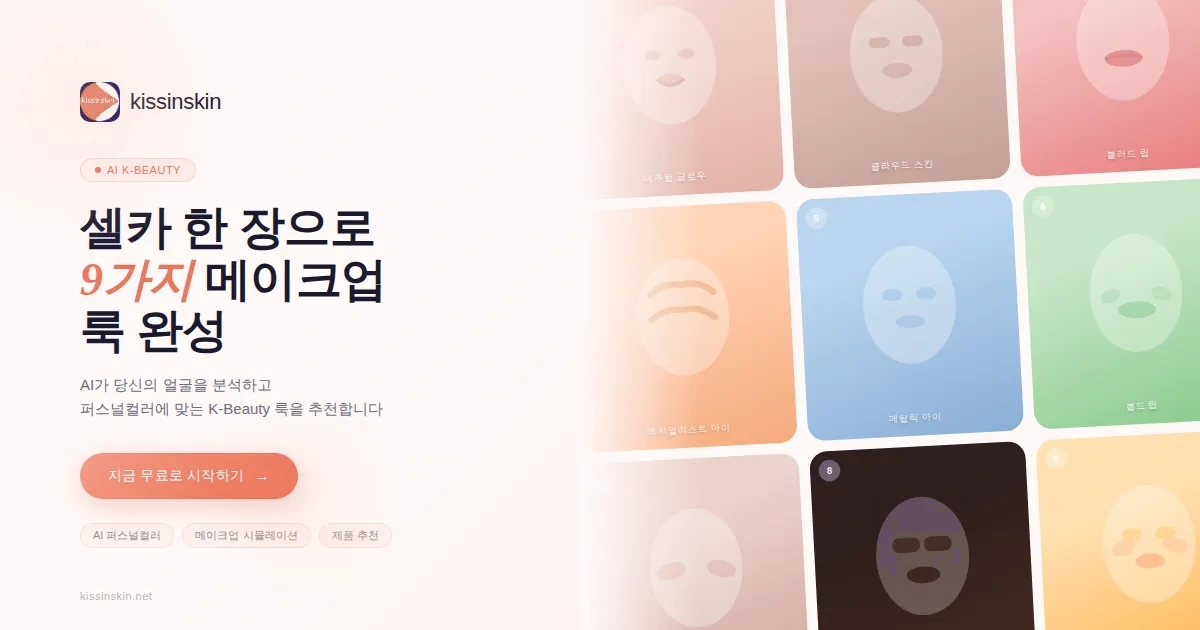
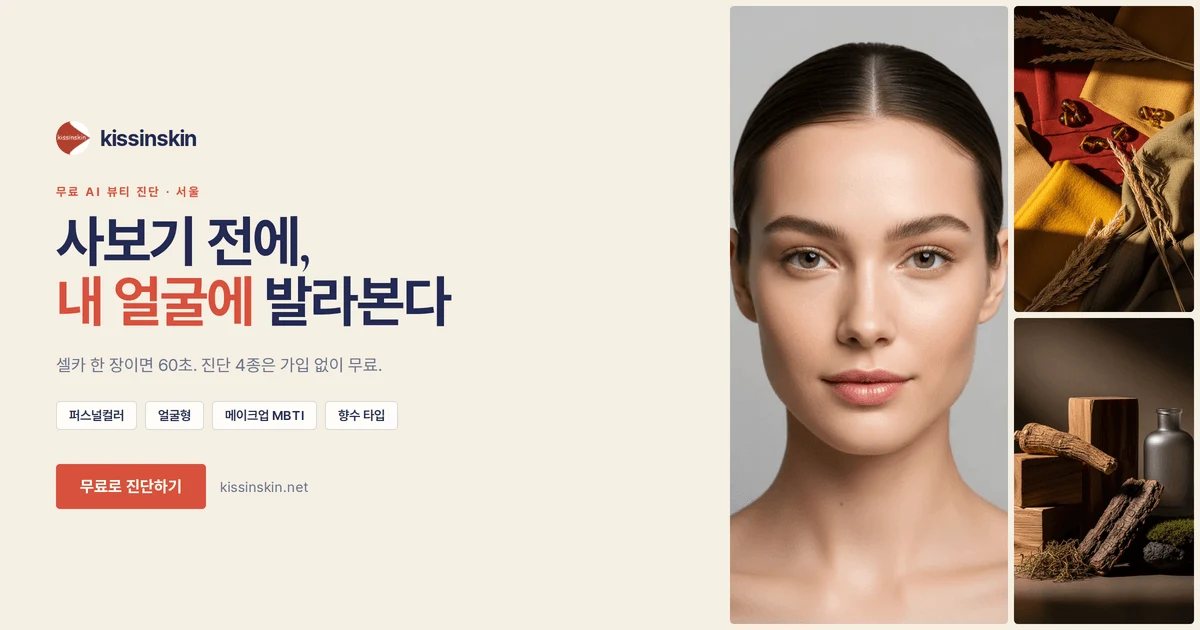
feat(og): 공유 카드 재생성 — 옛 카피·옛 핑크가 픽셀로 구워져 있던 og-image 교체 + EN 전용판
기존 og-image.png 는 팔레트 개편의 유일한 사각지대였다. 핑크 그라데이션 배경에
"셀카 한 장으로 9가지 메이크업 룩 완성"(옛 카피)과 "지금 무료로 시작하기" 가
이미지로 구워져 있어, 카톡·네이버·트위터에 공유될 때마다 개편 전 사이트가
그대로 나갔다. 오른쪽 격자는 이목구비가 없는 마스크 도형이었다.

- scripts/gen-og-image.mjs 추가. HTML → Playwright 스크린샷 → sharp 축소.
  카피/팔레트가 바뀌면 다시 돌리면 된다(recolor-logo.mjs 와 같은 취지).
  이미지 모델을 쓰지 않는 이유는 OG 카드의 본체가 텍스트이기 때문이다 —
  이미지 모델은 한글 자소를 정확히 그리지 못한다. 사진은 이미 만들어 둔
  public/mood/ 를 합성한다(포트레이트 + 가을 팔레트 + 우디 정물).
- 카피를 홈 히어로(home.hero.title*)와 같은 문장으로 맞췄다. 공유 카드와
  도착 페이지의 첫 문장이 다르면 클릭한 사람이 되돌아간다.
- og-image-en 신설 + pages/en 24개 Head 연결. 구글 유입의 42% 가 영어권인데
  (2026-07-14 서치콘솔) 공유 카드는 한국어 하나뿐이었다.

diff --git a/pages/en/+Head.tsx b/pages/en/+Head.tsx
@@ -24,7 +24,7 @@ export default function Head() {
         content="Free virtual makeup try-on. One selfie, 60 seconds — AI applies 9 K-beauty makeup looks and matching hair colour, then you compare before/after. Log in for 1 free try, no card needed. Free personal color and face shape tests too."
       />
       <meta property="og:url" content="https://kissinskin.net/en/" />
-      <meta property="og:image" content="https://kissinskin.net/og-image.png" />
+      <meta property="og:image" content="https://kissinskin.net/og-image-en.png" />
       <meta property="og:image:width" content="1200" />
       <meta property="og:image:height" content="630" />
       <meta property="og:image:type" content="image/png" />
@@ -36,7 +36,7 @@ export default function Head() {
         name="twitter:description"
         content="Free virtual makeup try-on. One selfie, 60 seconds — AI applies 9 K-beauty makeup looks and matching hair colour, then you compare before/after. Log in for 1 free try, no card needed. Free personal color and face shape tests too."
       />
-      <meta name="twitter:image" content="https://kissinskin.net/og-image.png" />
+      <meta name="twitter:image" content="https://kissinskin.net/og-image-en.png" />
       <script
         type="application/ld+json"
         dangerouslySetInnerHTML={{

diff --git a/pages/en/about-makeup-ai/+Head.tsx b/pages/en/about-makeup-ai/+Head.tsx
@@ -18,14 +18,14 @@ export default function Head() {
       <meta property="og:url" content="https://kissinskin.net/en/about-makeup-ai/" />
       <meta property="og:title" content={title} />
       <meta property="og:description" content={desc} />
-      <meta property="og:image" content="https://kissinskin.net/og-image.png" />
+      <meta property="og:image" content="https://kissinskin.net/og-image-en.png" />
       <meta property="og:site_name" content="kissinskin" />
       <meta property="og:locale" content="en_US" />
       <meta property="og:locale:alternate" content="ko_KR" />
       <meta name="twitter:card" content="summary_large_image" />
       <meta name="twitter:title" content={title} />
       <meta name="twitter:description" content={desc} />
-      <meta name="twitter:image" content="https://kissinskin.net/og-image.png" />
+      <meta name="twitter:image" content="https://kissinskin.net/og-image-en.png" />
       <script
         type="application/ld+json"
         dangerouslySetInnerHTML={{

diff --git a/pages/en/contact/+Head.tsx b/pages/en/contact/+Head.tsx
@@ -17,7 +17,7 @@ export default function Head() {
         property="og:description"
         content="Reach kissinskin for support, billing, privacy, and business inquiries."
       />
-      <meta property="og:image" content="https://kissinskin.net/og-image.png" />
+      <meta property="og:image" content="https://kissinskin.net/og-image-en.png" />
       <meta property="og:site_name" content="kissinskin" />
       <meta property="og:locale" content="en_US" />
       <meta property="og:locale:alternate" content="ko_KR" />
@@ -27,7 +27,7 @@ export default function Head() {
         name="twitter:description"
         content="Support, billing, privacy, and business inquiries."
       />
-      <meta name="twitter:image" content="https://kissinskin.net/og-image.png" />
+      <meta name="twitter:image" content="https://kissinskin.net/og-image-en.png" />
       <script
         type="application/ld+json"
         dangerouslySetInnerHTML={{

diff --git a/pages/en/tools/+Head.tsx b/pages/en/tools/+Head.tsx
@@ -25,7 +25,7 @@ export default function Head() {
       <meta property="og:url" content="https://kissinskin.net/en/tools/" />
       <meta property="og:title" content="kissinskin Tools · Free K-beauty self-diagnosis" />
       <meta property="og:description" content={desc} />
-      <meta property="og:image" content="https://kissinskin.net/og-image.png" />
+      <meta property="og:image" content="https://kissinskin.net/og-image-en.png" />
       <meta property="og:image:width" content="1200" />
       <meta property="og:image:height" content="630" />
       <meta property="og:locale" content="en_US" />
@@ -33,7 +33,7 @@ export default function Head() {
       <meta name="twitter:card" content="summary_large_image" />
       <meta name="twitter:title" content="kissinskin Tools · Free K-beauty self-diagnosis" />
       <meta name="twitter:description" content={desc} />
-      <meta name="twitter:image" content="https://kissinskin.net/og-image.png" />
+      <meta name="twitter:image" content="https://kissinskin.net/og-image-en.png" />
       <script type="application/ld+json" dangerouslySetInnerHTML={{ __html: JSON.stringify({
         "@context": "https://schema.org", "@type": "BreadcrumbList",
         "itemListElement": [

diff --git a/pages/en/tools/face-shape/+Head.tsx b/pages/en/tools/face-shape/+Head.tsx
@@ -21,14 +21,14 @@ export default function Head() {
       <meta property="og:url" content="https://kissinskin.net/en/tools/face-shape/" />
       <meta property="og:title" content={title} />
       <meta property="og:description" content={desc} />
-      <meta property="og:image" content="https://kissinskin.net/og-image.png" />
+      <meta property="og:image" content="https://kissinskin.net/og-image-en.png" />
       <meta property="og:site_name" content="kissinskin" />
       <meta property="og:locale" content="en_US" />
       <meta property="og:locale:alternate" content="ko_KR" />
       <meta name="twitter:card" content="summary_large_image" />
       <meta name="twitter:title" content={title} />
       <meta name="twitter:description" content={desc} />
-      <meta name="twitter:image" content="https://kissinskin.net/og-image.png" />
+      <meta name="twitter:image" content="https://kissinskin.net/og-image-en.png" />
       <script type="application/ld+json" dangerouslySetInnerHTML={{ __html: JSON.stringify({
         "@context": "https://schema.org", "@type": "Quiz",
         "name": "Face Shape Self-Diagnosis", "description": desc,

diff --git a/pages/en/tools/face-shape/@type/+Head.tsx b/pages/en/tools/face-shape/@type/+Head.tsx
@@ -24,14 +24,14 @@ export default function Head() {
       <meta property="og:url" content={url} />
       <meta property="og:title" content={title} />
       <meta property="og:description" content={desc} />
-      <meta property="og:image" content="https://kissinskin.net/og-image.png" />
+      <meta property="og:image" content="https://kissinskin.net/og-image-en.png" />
       <meta property="og:site_name" content="kissinskin" />
       <meta property="og:locale" content="en_US" />
       <meta property="og:locale:alternate" content="ko_KR" />
       <meta name="twitter:card" content="summary_large_image" />
       <meta name="twitter:title" content={title} />
       <meta name="twitter:description" content={desc} />
-      <meta name="twitter:image" content="https://kissinskin.net/og-image.png" />
+      <meta name="twitter:image" content="https://kissinskin.net/og-image-en.png" />
       <script type="application/ld+json" dangerouslySetInnerHTML={{ __html: JSON.stringify({
         "@context": "https://schema.org", "@type": "Article",
         "headline": `${enName} Face Shape — Complete Guide`,

diff --git a/pages/en/tools/makeup-mbti/+Head.tsx b/pages/en/tools/makeup-mbti/+Head.tsx
@@ -19,14 +19,14 @@ export default function Head() {
       <meta property="og:url" content="https://kissinskin.net/en/tools/makeup-mbti/" />
       <meta property="og:title" content={title} />
       <meta property="og:description" content={desc} />
-      <meta property="og:image" content="https://kissinskin.net/og-image.png" />
+      <meta property="og:image" content="https://kissinskin.net/og-image-en.png" />
       <meta property="og:site_name" content="kissinskin" />
       <meta property="og:locale" content="en_US" />
       <meta property="og:locale:alternate" content="ko_KR" />
       <meta name="twitter:card" content="summary_large_image" />
       <meta name="twitter:title" content={title} />
       <meta name="twitter:description" content={desc} />
-      <meta name="twitter:image" content="https://kissinskin.net/og-image.png" />
+      <meta name="twitter:image" content="https://kissinskin.net/og-image-en.png" />
       <script type="application/ld+json" dangerouslySetInnerHTML={{ __html: JSON.stringify({
         "@context": "https://schema.org", "@type": "Quiz",
         "name": "Makeup MBTI Quiz", "description": desc,

diff --git a/pages/en/tools/makeup-mbti/@type/+Head.tsx b/pages/en/tools/makeup-mbti/@type/+Head.tsx
@@ -25,14 +25,14 @@ export default function Head() {
       <meta property="og:url" content={url} />
       <meta property="og:title" content={title} />
       <meta property="og:description" content={desc} />
-      <meta property="og:image" content="https://kissinskin.net/og-image.png" />
+      <meta property="og:image" content="https://kissinskin.net/og-image-en.png" />
       <meta property="og:site_name" content="kissinskin" />
       <meta property="og:locale" content="en_US" />
       <meta property="og:locale:alternate" content="ko_KR" />
       <meta name="twitter:card" content="summary_large_image" />
       <meta name="twitter:title" content={title} />
       <meta name="twitter:description" content={desc} />
-      <meta name="twitter:image" content="https://kissinskin.net/og-image.png" />
+      <meta name="twitter:image" content="https://kissinskin.net/og-image-en.png" />
       <script type="application/ld+json" dangerouslySetInnerHTML={{ __html: JSON.stringify({
         "@context": "https://schema.org", "@type": "Article",
         "headline": `${en.enPersona} — Makeup MBTI ${t.code}`,

diff --git a/pages/en/tools/perfume-type/+Head.tsx b/pages/en/tools/perfume-type/+Head.tsx
@@ -20,14 +20,14 @@ export default function Head() {
       <meta property="og:url" content="https://kissinskin.net/en/tools/perfume-type/" />
       <meta property="og:title" content={title} />
       <meta property="og:description" content={desc} />
-      <meta property="og:image" content="https://kissinskin.net/og-image.png" />
+      <meta property="og:image" content="https://kissinskin.net/og-image-en.png" />
       <meta property="og:site_name" content="kissinskin" />
       <meta property="og:locale" content="en_US" />
       <meta property="og:locale:alternate" content="ko_KR" />
       <meta name="twitter:card" content="summary_large_image" />
       <meta name="twitter:title" content={title} />
       <meta name="twitter:description" content={desc} />
-      <meta name="twitter:image" content="https://kissinskin.net/og-image.png" />
+      <meta name="twitter:image" content="https://kissinskin.net/og-image-en.png" />
       <script type="application/ld+json" dangerouslySetInnerHTML={{ __html: JSON.stringify({
         "@context": "https://schema.org", "@type": "Quiz",
         "name": "Perfume Type Quiz", "description": desc,

diff --git a/pages/en/tools/perfume-type/@type/+Head.tsx b/pages/en/tools/perfume-type/@type/+Head.tsx
@@ -23,14 +23,14 @@ export default function Head() {
       <meta property="og:url" content={url} />
       <meta property="og:title" content={title} />
       <meta property="og:description" content={desc} />
-      <meta property="og:image" content="https://kissinskin.net/og-image.png" />
+      <meta property="og:image" content="https://kissinskin.net/og-image-en.png" />
       <meta property="og:site_name" content="kissinskin" />
       <meta property="og:locale" content="en_US" />
       <meta property="og:locale:alternate" content="ko_KR" />
       <meta name="twitter:card" content="summary_large_image" />
       <meta name="twitter:title" content={title} />
       <meta name="twitter:description" content={desc} />
-      <meta name="twitter:image" content="https://kissinskin.net/og-image.png" />
+      <meta name="twitter:image" content="https://kissinskin.net/og-image-en.png" />
       <script type="application/ld+json" dangerouslySetInnerHTML={{ __html: JSON.stringify({
         "@context": "https://schema.org", "@type": "Article",
         "headline": `${t.enName} Perfume Type — Complete Guide`,

diff --git a/pages/en/tools/personal-color/+Head.tsx b/pages/en/tools/personal-color/+Head.tsx
@@ -21,14 +21,14 @@ export default function Head() {
       <meta property="og:url" content="https://kissinskin.net/en/tools/personal-color/" />
       <meta property="og:title" content={title} />
       <meta property="og:description" content={desc} />
-      <meta property="og:image" content="https://kissinskin.net/og-image.png" />
+      <meta property="og:image" content="https://kissinskin.net/og-image-en.png" />
       <meta property="og:site_name" content="kissinskin" />
       <meta property="og:locale" content="en_US" />
       <meta property="og:locale:alternate" content="ko_KR" />
       <meta name="twitter:card" content="summary_large_image" />
       <meta name="twitter:title" content={title} />
       <meta name="twitter:description" content={desc} />
-      <meta name="twitter:image" content="https://kissinskin.net/og-image.png" />
+      <meta name="twitter:image" content="https://kissinskin.net/og-image-en.png" />
       <script type="application/ld+json" dangerouslySetInnerHTML={{ __html: JSON.stringify({
         "@context": "https://schema.org", "@type": "Quiz",
         "name": "Personal Color Self-Diagnosis", "description": desc,

diff --git a/pages/en/tools/personal-color/@type/+Head.tsx b/pages/en/tools/personal-color/@type/+Head.tsx
@@ -24,14 +24,14 @@ export default function Head() {
       <meta property="og:url" content={url} />
       <meta property="og:title" content={title} />
       <meta property="og:description" content={desc} />
-      <meta property="og:image" content="https://kissinskin.net/og-image.png" />
+      <meta property="og:image" content="https://kissinskin.net/og-image-en.png" />
       <meta property="og:site_name" content="kissinskin" />
       <meta property="og:locale" content="en_US" />
       <meta property="og:locale:alternate" content="ko_KR" />
       <meta name="twitter:card" content="summary_large_image" />
       <meta name="twitter:title" content={title} />
       <meta name="twitter:description" content={desc} />
-      <meta name="twitter:image" content="https://kissinskin.net/og-image.png" />
+      <meta name="twitter:image" content="https://kissinskin.net/og-image-en.png" />
       <script type="application/ld+json" dangerouslySetInnerHTML={{ __html: JSON.stringify({
         "@context": "https://schema.org", "@type": "Article",
         "headline": `${enName} — Complete Personal Color Guide`,